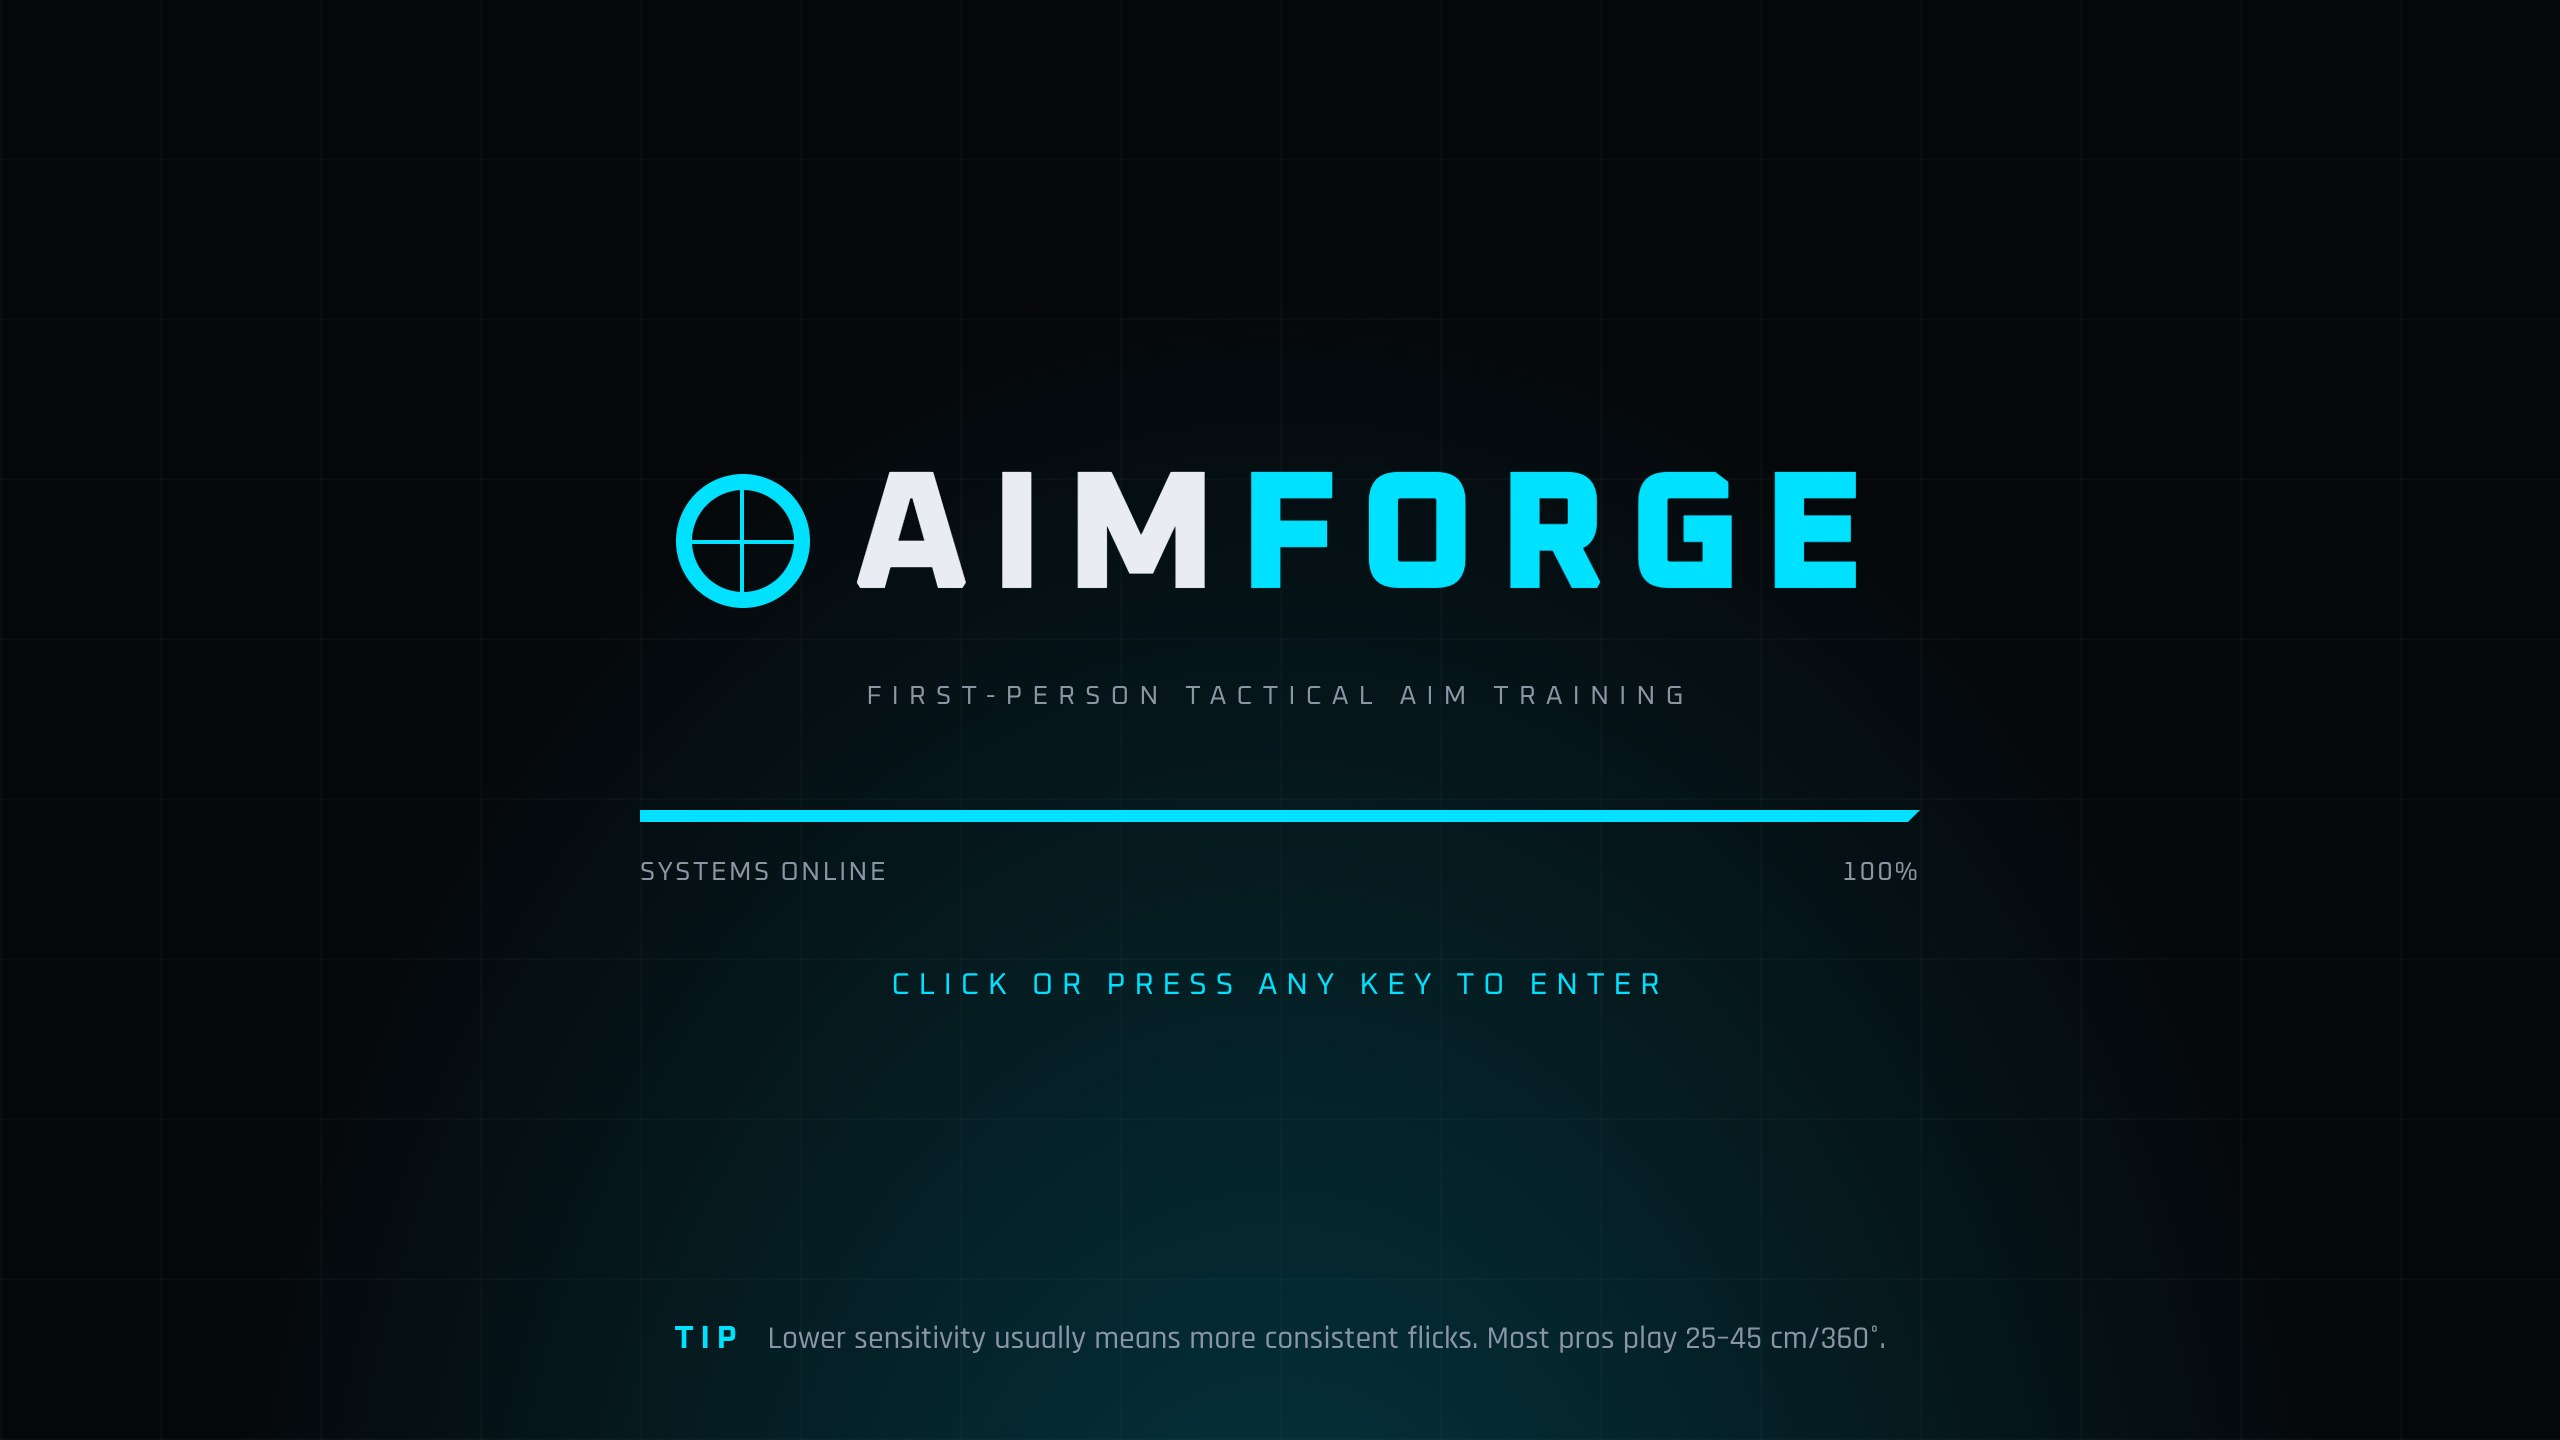
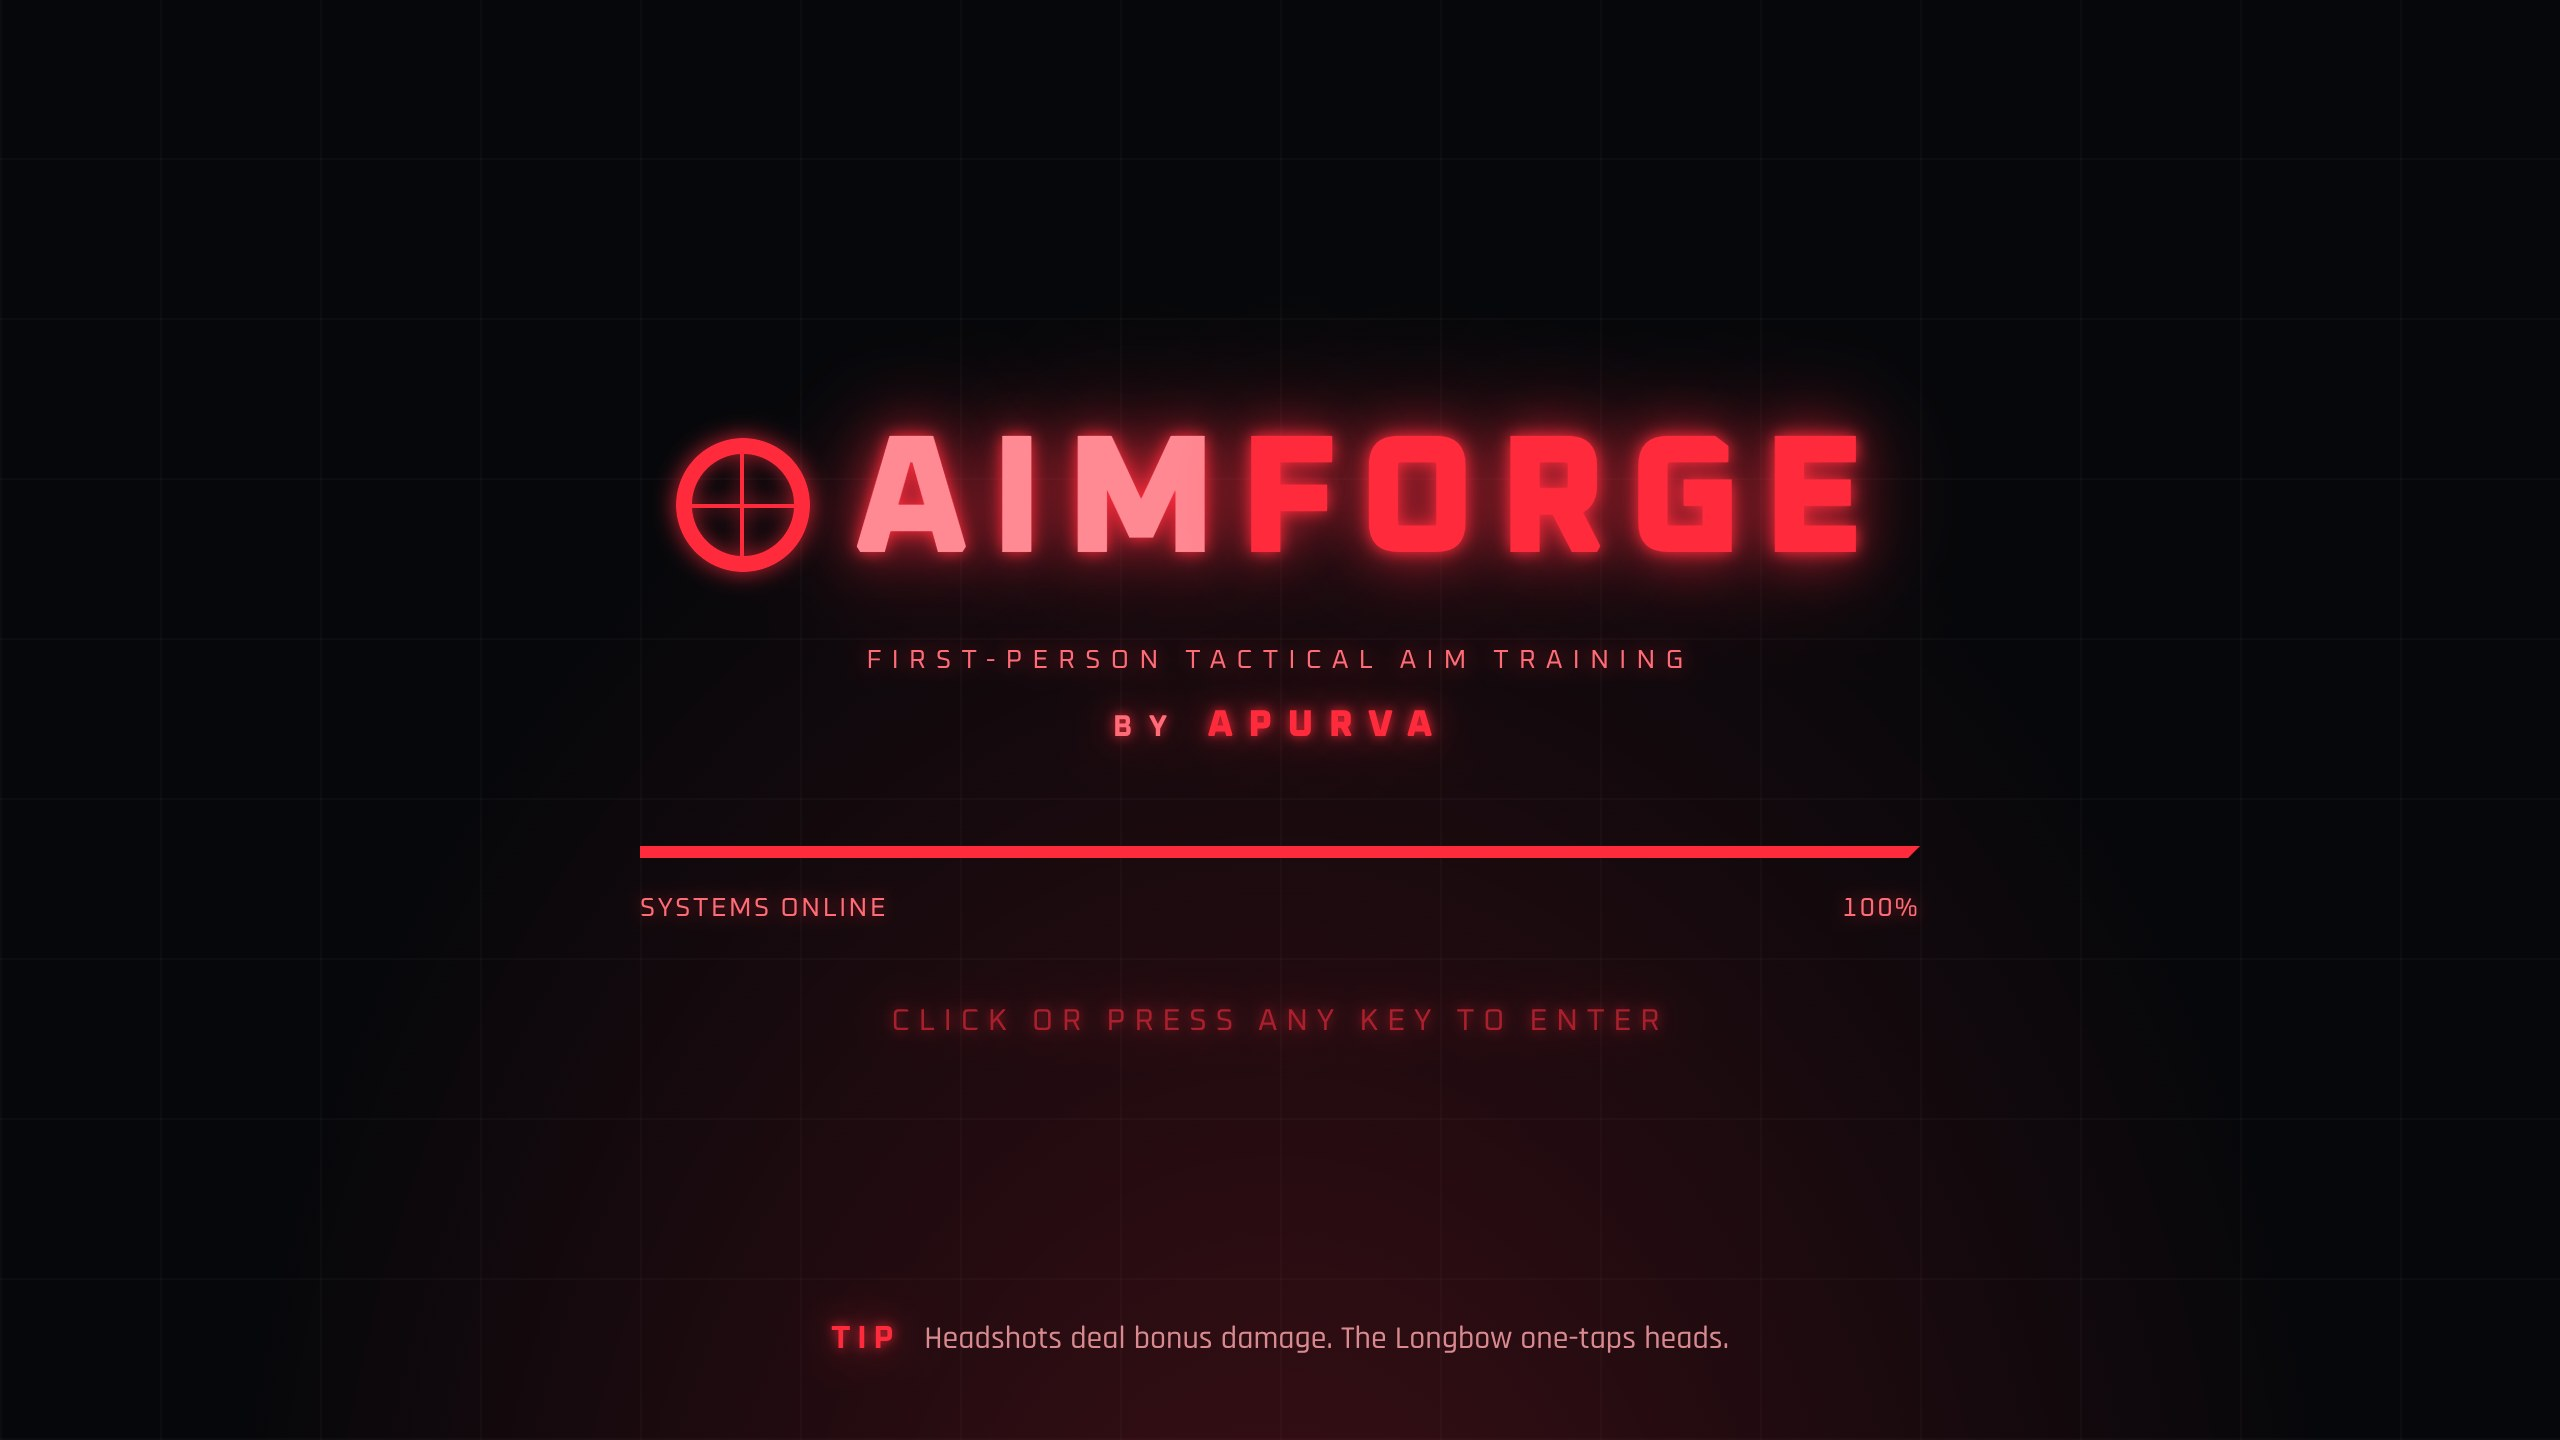
Loader: add 'by Apurva' credit and a red glowing theme
The loading screen now uses its own red accent (scoped to #loading, so
the operator colour no longer repaints it mid-load) with glowing logo,
crosshair mark, progress bar, status text and credit.

Changed region(s): [[0.25, 0.5625, 0.75, 1.0], [0.25, 0.25, 0.75, 0.5312]]

diff --git a/styles.css b/styles.css
@@ -36,6 +36,23 @@ kbd { display: inline-block; min-width: 1.6em; padding: 0 .35em; border: 1px sol
 /* ------------------------------------------------------------------ loading */
 #loading { display: grid; place-items: center; background: #05070a; transition: opacity .6s; z-index: 50; cursor: pointer; }
 #loading.fade-out { opacity: 0; pointer-events: none; }
+
+/* loader: red, glowing — scoped so the operator accent never repaints it */
+#loading { --accent: #ff2b3d; --glow: 0 0 6px rgba(255, 43, 61, .9), 0 0 18px rgba(255, 43, 61, .65), 0 0 42px rgba(255, 43, 61, .35); }
+#loading .logo { color: #ff8a94; text-shadow: var(--glow); animation: glowPulse 2.4s ease-in-out infinite; }
+#loading .logo b { color: var(--accent); }
+#loading .logo-mark { box-shadow: 0 0 12px rgba(255, 43, 61, .8), inset 0 0 10px rgba(255, 43, 61, .6); }
+#loading .logo-mark::before, #loading .logo-mark::after { box-shadow: 0 0 10px var(--accent); }
+#loading .load-tag { color: #ff6b76; text-shadow: 0 0 10px rgba(255, 43, 61, .6); }
+.load-by { font-family: var(--display); font-weight: 700; font-size: 15px; letter-spacing: .55em; color: #ff6b76; text-shadow: var(--glow); margin-top: -6px; }
+.load-by b { color: var(--accent); font-weight: 800; font-size: 1.25em; letter-spacing: .4em; }
+#loading .load-bar { background: rgba(255, 43, 61, .12); box-shadow: 0 0 14px rgba(255, 43, 61, .25); }
+#loading #load-bar-fill { box-shadow: 0 0 12px var(--accent), 0 0 30px var(--accent); }
+#loading .load-row { color: #ff6b76; text-shadow: 0 0 8px rgba(255, 43, 61, .55); }
+#loading .load-enter { text-shadow: var(--glow); }
+#loading .load-tip { color: #d98a90; }
+#loading .load-tip b { text-shadow: var(--glow); }
+@keyframes glowPulse { 50% { text-shadow: 0 0 8px rgba(255, 43, 61, 1), 0 0 26px rgba(255, 43, 61, .8), 0 0 60px rgba(255, 43, 61, .5); } }
 .load-bg { position: absolute; inset: 0; background:
   radial-gradient(ellipse at 50% 120%, color-mix(in srgb, var(--accent) 22%, transparent), transparent 60%),
   repeating-linear-gradient(90deg, rgba(255,255,255,.025) 0 1px, transparent 1px 80px),

diff --git a/index.html b/index.html
@@ -20,6 +20,7 @@
     <div class="load-inner">
       <div class="logo big"><span class="logo-mark"></span><span>AIM<b>FORGE</b></span></div>
       <div class="load-tag">FIRST-PERSON TACTICAL AIM TRAINING</div>
+      <div class="load-by">BY <b>APURVA</b></div>
       <div class="load-bar"><div id="load-bar-fill"></div></div>
       <div class="load-row"><span id="load-status">Booting…</span><span id="load-pct">0%</span></div>
       <div id="load-enter" class="load-enter hidden">CLICK OR PRESS ANY KEY TO ENTER</div>
